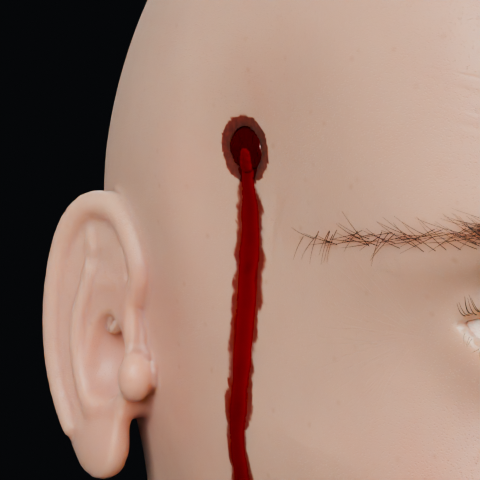
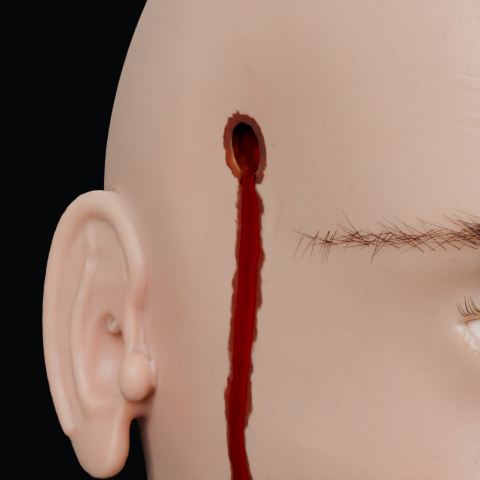
WIP snapshot: head wounds fixer renders
Claude-Session: https://claude.ai/code/session_0186CV4JXPBpxwWrzN3Er8XW

diff --git a/blender/gore_head/gore.py b/blender/gore_head/gore.py
@@ -956,9 +956,9 @@ def _build_exit():
     star, tear_phi = c.tears(6, width=(0.1, 0.3), length=(0.25, 1.0), sharp=1.3, wobble=0.18, with_angle=True)
     phi0 = c.hash(8) * TAU
     dphi = theta - phi0
-    r_circ = R * (0.40 + 0.2 * lf + 0.32 * star)
-    r_star = R * (0.2 + 0.12 * lf + 0.8 * star)
-    r_irr = R * (0.26 + 0.5 * lf2 + 0.36 * star)
+    r_circ = R * (0.48 + 0.2 * lf + 0.3 * star)
+    r_star = R * (0.3 + 0.14 * lf + 0.72 * star)
+    r_irr = R * (0.34 + 0.5 * lf2 + 0.34 * star)
     a_, b_ = R * 0.95, R * 0.2
     r_slit = a_ * b_ / ((b_ * dphi.cos()) ** 2.0 + (a_ * dphi.sin()) ** 2.0).sqrt().max(1e-7) + R * 0.25 * star
     r_cres = R * (0.3 + 0.62 * t.smooth(-0.3, 0.7, dphi.cos())) * (0.85 + 0.2 * lf) + R * 0.2 * star
@@ -1040,7 +1040,7 @@ def _build_exit():
     return t
 
 
-def _slash_params(t, s, e, D, tx, ty, scalp):
+def _slash_params(t, s, e, D, tx, ty, scalp, neck=None):
     """Length and gape of an incised cut.
 
     Gape (total opening at the widest point) = L * G(theta) * f_depth * f_region
@@ -1054,7 +1054,11 @@ def _slash_params(t, s, e, D, tx, ty, scalp):
     # (a cut through the muscle gapes more: the muscle retracts as well)
     G = 0.035 + 0.175 * sin2 + 0.045 * t.smooth(0.6, 0.9, D)
     f_depth = t.smooth(0.1, 0.5, D)
+    # (a deep throat cut divides the platysma and strap muscles: they retract
+    # and the wound gapes widely even along the neck's skin lines)
     f_reg = 1.0 + scalp * t.smooth(0.45, 0.6, D) * 0.45
+    if neck is not None:
+        f_reg = f_reg + neck * t.smooth(0.55, 0.8, D) * 1.6
     gape = (half_len * 2.0 * G * f_depth * f_reg).min(0.016)
     return half_len, gape
 
@@ -1093,7 +1097,7 @@ def _build_slash():
     is_skin = c.is_layer(LAYER_SKIN)
     is_bone = c.lc(LAYER_IS_BONE)
     tens = t.inp("Tension")
-    half_len, gape = _slash_params(t, s, c.e, D, tens.x, tens.y, t.inp("Region").x)
+    half_len, gape = _slash_params(t, s, c.e, D, tens.x, tens.y, t.inp("Region").x, t.inp("Region").z)
     tt = u / half_len
     # the cut line bows and wanders a little
     bow = (c.hash(1) - 0.5) * 0.16
@@ -1477,7 +1481,10 @@ def _build_burn():
     # relief heights follow the tissue, not the burn's extent
     sd = s.min(1.2)
     # (distance over the surface, not in the hit plane: the face curves away)
-    rho_e = (c.u * c.u + (c.v / c.e) ** 2.0 + c.w * c.w).sqrt()
+    # (the depth term is halved: on the side of the head, which is nearly a
+    # vertical cylinder, a full 3D distance cuts the dose off along vertical
+    # lines)
+    rho_e = (c.u * c.u + (c.v / c.e) ** 2.0 + c.w * c.w * 0.35).sqrt()
     # smooth dose with a lobed, irregular boundary (no thresholded noise)
     ring = t.vec(c.theta.cos() * 1.3, c.theta.sin() * 1.3, c.seed * 7.0)
     lobes = t.noise(ring, detail=2.0)
@@ -1497,7 +1504,8 @@ def _build_burn():
     # the lateral edges wander strongly (irregular zones, never a straight line)
     edge_w = t.noise(t.vec(up_ * 55.0, c.seed * 3.0, 1.7), detail=3.0) * 0.35 \
         + t.noise(c.np * 160.0, detail=2.0) * 0.08
-    rn = rho_e / R * (1.0 + 0.45 * lobes) + 0.12 * n2 + 0.3 * n3 - 0.45 * lick + edge_w
+    n4 = t.noise(c.np * 16.0 + t.vec(0.0, c.seed * 4.0, 0.0), detail=2.0)
+    rn = rho_e / R * (1.0 + 0.45 * lobes) + 0.12 * n2 + 0.3 * n3 + 0.4 * n4 - 0.45 * lick + edge_w
     # soft edge: a 5-15 mm band of red skin; the flame tongues fade out well
     # inside the hit's reach (or the evaluation bounds show as a straight edge)
     # (the outer clamp is lobed too: a clean ellipse here gave the burn long
@@ -1896,7 +1904,7 @@ class _Hit:
                 return t.bool('AND', au.lt(hl + s * 0.03), av.lt(s * 0.024 + 0.004))
             return t.bool('AND', au.lt(hl * 1.04 + 0.002), av.lt(s * 0.0095 + 0.002))
         if kind == "burn":
-            rr = (self.u * self.u + (self.v / e) ** 2.0 + self.w * self.w).sqrt()
+            rr = (self.u * self.u + (self.v / e) ** 2.0 + self.w * self.w * 0.35).sqrt()
             if reach:
                 # (beyond the dose field's lobed edge, so it never ends in a cut line)
                 return rr.lt(s * 0.022 * 2.3 + 0.004)
@@ -2559,7 +2567,7 @@ def _drip_seeds(t, pts, kind, kind_id, damage, drip):
     hole = t.attr("b_hole")
     if kind == "slash":
         Tw = t.attr("hit_T", 'FLOAT_VECTOR')
-        half_len, gape = _slash_params(t, s, e, D, Tw.dot(X), Tw.dot(Y), h["R"].x)
+        half_len, gape = _slash_params(t, s, e, D, Tw.dot(X), Tw.dot(Y), h["R"].x, h["R"].z)
         dx, dy = -X.z, -Y.z
         sy = t.math('SIGN', dy)
 
@@ -2717,7 +2725,7 @@ def _build_pools(t, hits, surface, drip):
     # skin at the cut's ends; a miss there is air, not the opening -- those
     # vertices once floated as a flat collar around the neck)
     near_s = t.out(t.node('GeometryNodeProximity', {'Target': surface, 'Source Position': P0},
-                          target_element='FACES'), 'Distance').lt(0.009)
+                          target_element='FACES'), 'Distance').lt(0.0035)
     in_miss = t.bool('AND', in_miss, near_s)
     inside = t.bool('OR', t.bool('AND', hit, wk.gt(0.25)), t.bool('AND', t.bool('NOT', hit), in_miss))
     outside = t.switch(inside, 1.0, 0.0)
@@ -3199,7 +3207,8 @@ def _build_blood():
         hole, _r = _wound_extent(t, k, h)
         if k == "slash":
             Tw = t.attr("hit_T", 'FLOAT_VECTOR')
-            hl, gape = _slash_params(t, h["s"], h["e"], h["D"], Tw.dot(h["X"]), Tw.dot(h["Y"]), h["R"].x)
+            hl, gape = _slash_params(t, h["s"], h["e"], h["D"], Tw.dot(h["X"]), Tw.dot(h["Y"]), h["R"].x,
+                                     h["R"].z)
             rp, rpy = hl * 1.08 + 0.0015, gape * 0.5 + 0.0028
             hk = t.store(hk, "pl_col", 1.0)
         else:
@@ -3817,9 +3826,11 @@ def _mush(t, g, on_faces):
     big = r1.gt(0.94)
     med = t.bool('AND', r1.gt(0.58), t.bool('NOT', big))
     sz = t.switch(big, t.switch(med, 0.0003 + 0.0006 * r2, 0.0009 + 0.0013 * r2), 0.002 + 0.0018 * r2)
+    sz = t.switch(brain, sz, sz.min(0.0022))
     # (most pieces are torn shreds and sheets, only some are lumps: rounded
     # blobs read as berries / beads)
-    flap = t.bool('OR', big, r3.lt(0.6))
+    # (pulped brain comes out as soft lumps, not sheets)
+    flap = t.bool('AND', t.bool('OR', big, r3.lt(0.6)), t.bool('NOT', brain))
     # flaps: thin torn sheets (0.3-0.6 mm); lumps: flattened blobs
     sx = sz * t.switch(flap, 0.8 + 0.5 * r4, 1.1 + 0.6 * r4)
     sy = sz * t.switch(flap, 0.6 + 0.5 * r5, 0.7 + 0.5 * r3)

diff --git a/blender/gore_body/head_integration.py b/blender/gore_body/head_integration.py
@@ -787,18 +787,42 @@ def _eye_arrays(side):
             a = mean_az if a is None else a
             rr = 0.5 * polar[i] / math.pi
             uv_loops.append((0.5 + rr * math.cos(a), 0.5 + rr * math.sin(a)))
+    # outward winding: glTF/Godot cull back faces, so an inside-out globe shows the inside of its far
+    # hemisphere (no iris, no pupil) while Cycles hides the error (critics round 2: signed volume -7.25 cm3).
+    # Reverse every face together with its per-loop UVs when the closed sphere's signed volume is negative.
+    if _signed_volume(verts, faces) < 0.0:
+        faces, uv_loops = _reverse_faces(faces, uv_loops)
     sx = 1.0 if side == "L" else -1.0
     c = eye_centre(side)
     v = verts * np.array([sx, 1.0, 1.0]) + c
     if sx < 0:
-        faces = [f[::-1] for f in faces]
-        uv_f, o = [], 0
-        for f in faces:
-            n = len(f)
-            uv_f += uv_loops[o:o + n][::-1]
-            o += n
+        # the mirror flips the winding: reverse it back (outward) and mirror the UVs
+        faces, uv_f = _reverse_faces(faces, uv_loops)
         uv_loops = [(1.0 - a, b) for a, b in uv_f]
+    assert _signed_volume(v - c, faces) > 0.0, f"GB_Eye_{side} is inside-out"
     return v, faces, np.array(uv_loops)
+
+
+def _reverse_faces(faces, uv_loops):
+    """Reverse the winding of every polygon of ``faces`` together with its per-loop ``uv_loops``."""
+    out_f, out_uv, o = [], [], 0
+    for f in faces:
+        n = len(f)
+        out_f.append(list(f)[::-1])
+        out_uv += list(uv_loops[o:o + n])[::-1]
+        o += n
+    return out_f, out_uv
+
+
+def _signed_volume(verts, faces):
+    """Signed volume (m^3) of a closed polygon mesh (fan-triangulated); > 0 when the faces wind outward."""
+    v = np.asarray(verts, float)
+    vol = 0.0
+    for f in faces:
+        a = v[f[0]]
+        for i in range(1, len(f) - 1):
+            vol += float(np.dot(a, np.cross(v[f[i]], v[f[i + 1]])))
+    return vol / 6.0
 
 
 def build_eyes():

diff --git a/blender/gore_body/verify.py b/blender/gore_body/verify.py
@@ -132,10 +132,13 @@ def rig_joint_positions():
     for bone, l in pairs.items():
         if not _close(bm[bone]["head"], lm[l], 0.002):
             bad.append(bone)
-    eye = gbc.head_to_body(LM.HEAD_CONTRACT["eye_L"])
-    if not _close(bm["eye_L"]["head"], eye, 0.001):
-        bad.append("eye_L")
-    return not bad, f"joint heads vs RB §7.1/§1.2 landmarks within 2 mm; off: {bad}"
+    # eye and lid bones pivot at the MEASURED globe centre (head project's EYE_C + HEAD_OFFSET, within 0.2 mm),
+    # not at the RB §1.2 table value 2.5 mm in front of it (critics round 2: the globe swung through the lids)
+    eye = gbc.head_to_body(np.asarray(gbc.import_head().anatomy.EYE_C, float))
+    for b in ("eye_L", "lid_upper_L", "lid_lower_L"):
+        if not _close(bm[b]["head"], eye, 0.0002):
+            bad.append(b)
+    return not bad, f"joint heads vs RB §7.1 landmarks within 2 mm, eye/lid pivots at the globe centre (0.2 mm); off: {bad}"
 
 
 @check("tables")

diff --git a/blender/gore_body/lookdev.py b/blender/gore_body/lookdev.py
@@ -53,6 +53,7 @@ sys.path.insert(0, os.path.dirname(os.path.abspath(__file__)))
 import gb_common as gbc  # noqa: E402
 from gb_data import landmarks as LM  # noqa: E402
 from gb_data import organs as OR  # noqa: E402
+from gb_data import rig_table as RT  # noqa: E402
 
 HEAD_OFFSET = tuple(float(x) for x in gbc.HEAD_OFFSET)
 
@@ -471,7 +472,7 @@ def build_materials(eyes=None):
     out["GBL_bone"] = _bone_material(ghm["GH_Bone"])
     for side in ("L", "R"):
         o = (eyes or {}).get(f"GB_Eye_{side}") or bpy.data.objects.get(f"GB_Eye_{side}")
-        c = eye_centre(o) if o is not None else (0.032 if side == "L" else -0.032, -0.050, 1.669)
+        c = eye_centre(o) if o is not None else (RT._EYE_L[0] * (1.0 if side == "L" else -1.0), RT._EYE_L[1], RT._EYE_L[2])
         out[f"GBL_eye_{side}"] = _shifted_copy(ghm["GH_Eye"], f"GBL_eye_{side}", c)
     out["GBL_skin_body"] = _body_skin_material()
     for n_ in ("GBL_skin_head", "GBL_skin_body"):

diff --git a/blender/gore_body/gb_data/rig_table.py b/blender/gore_body/gb_data/rig_table.py
@@ -22,7 +22,11 @@ from . import myotomes as _myo
 _FWD = (0.0, -1.0, 0.0)
 _UP = (0.0, 0.0, 1.0)
 
-_EYE_L = (0.032, -0.050, 1.669)                     # eyeball centre [RB §1.2] (head eye + offset)
+# eyeball centre = the head project's measured globe centre (gore_head anatomy.EYE_C (0.0315, -0.0675, 0.022)
+# + HEAD_OFFSET), not the RB §1.2 table value (0.032, -0.050, 1.669): the bible point is 2.5 mm in front of the
+# real globe centre, so every gaze rotation swung the globe through the lids (critics round 2).  verify
+# (rig_joint_positions, b6_eye_pivots) proves it equals head_integration.eye_centre() within 0.2 mm.
+_EYE_L = (0.0315, -0.0475, 1.669)
 
 BONES_MID = [
     ("root", None, (0.0, 0.0, 0.0), (0.0, 0.0, 0.10), _FWD, True, "Never simulated"),

diff --git a/blender/gore_body/rig.py b/blender/gore_body/rig.py
@@ -626,7 +626,7 @@ def _face(p, idx, w):
     """Blend B2's lid-bone weights in (only points near the eyes are touched)."""
     near = np.zeros(len(p), bool)
     for sx in (1.0, -1.0):
-        c = np.array([sx * 0.032, -0.050, 1.669])
+        c = np.array([sx * RT._EYE_L[0], RT._EYE_L[1], RT._EYE_L[2]])
         near |= np.linalg.norm(p - c, axis=1) < 0.024
     if not near.any():
         return idx, w
